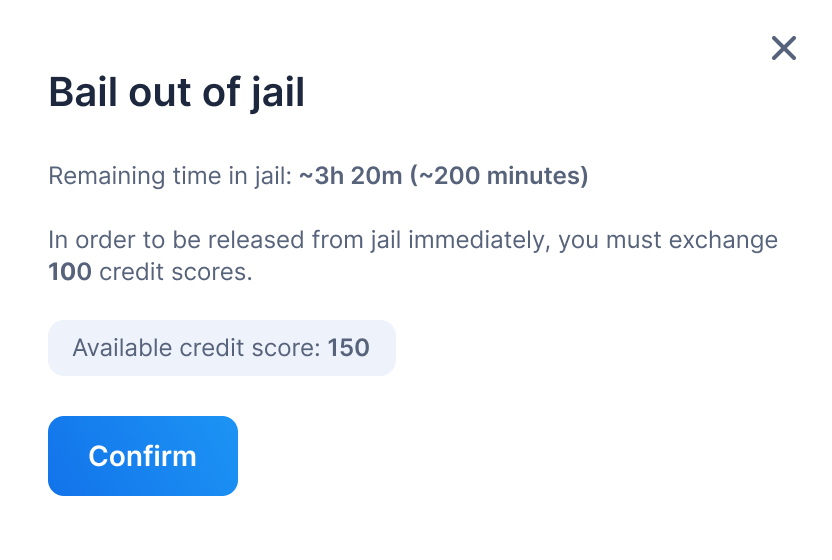
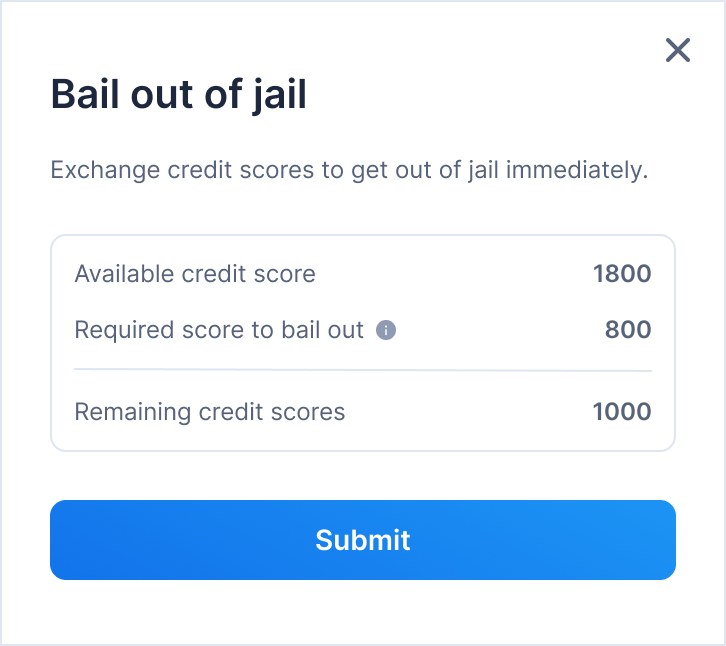
feat: update bailout doc and restructure page tree

diff --git a/sidebars.js b/sidebars.js
@@ -216,38 +216,28 @@ const sidebars = {
               ],
               },
               {
+                type: 'doc',
+                label: 'Claim rewards',
+                id: 'validator/rewards'
+              },
+              {
                 type: 'category',
-                label: 'Rewards',
+                label: 'Slashing and bailout',
                 items: [
                   {
                     type: 'doc',
-                    label: 'Claim your rewards',
-                    id: 'validator/rewards',
+                    label: 'Slashing',
+                    id: 'validator/slashing',
+                  },
+                  {
+                    type: 'doc',
+                    label: 'Bailout',
+                    id: 'validator/bailout',
                   },
                 ],
               },
-              {
-                type: 'doc',
-                label: 'Slashing',
-                id: 'validator/slashing',
-              },
           ],
-        },
-        // {
-        //   type: 'doc',
-        //   label: 'Validator responsibility',
-        //   id: 'validator/responsibility',
-        // },
-        // {
-        //   type: 'doc',
-        //   label: 'Set up a validator node',
-        //   id: 'validator/setup',
-        // },
-        // {
-        //   type: 'doc',
-        //   label: 'Registration',
-        //   id: 'validator/registration',
-        // },
+        }
       ],
     },
     {
